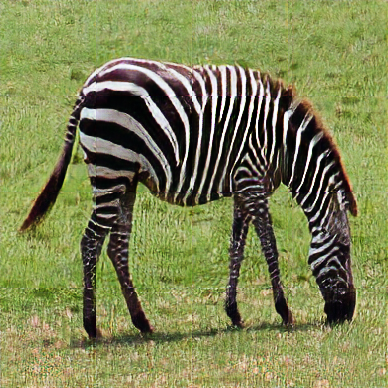
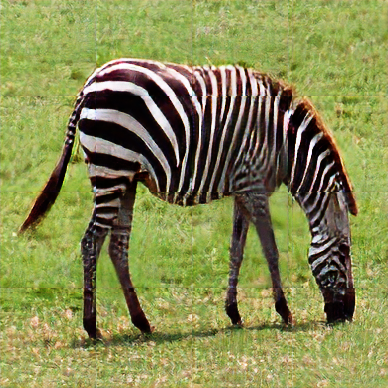
Added test images

diff --git a/Improvement/test.py b/Improvement/test.py
@@ -3,7 +3,7 @@ import numpy as np
 import tensorflow as tf
 from model import generator, discriminator
 
-path = "test_image/input/04336.jpg"
+path = "test_image/input/050.png"
 
 X = cv2.imread(path)
 len = X.shape[0]
@@ -30,6 +30,8 @@ model.add(discriminator())
 generator, discriminator = model.layers
 generator.load_weights("weights/gan_generator.h5")
 
+X = X/255
+
 for i in range (n_of_section):
     for j in range (n_of_section):
 
@@ -38,28 +40,28 @@ for i in range (n_of_section):
             input = np.reshape(input, (1, 24, 24, 3))
             X_batch = tf.cast(input, tf.float32)
             Y = generator(X_batch)
-            output[i*96:(i+1)*96,j*96:(j+1)*96,:] = Y[0]
+            output[i*96:(i+1)*96,j*96:(j+1)*96,:] = (Y[0].numpy() + 1)*127.5
 
         elif (i+1)*24 > size and (j+1)*24 < size:
             input = X[size - 24:size, j*24:(j+1)*24, :]
             input = np.reshape(input, (1, 24, 24, 3))
             X_batch = tf.cast(input, tf.float32)
             Y = generator(X_batch)
-            output[size * 4 - 96:size * 4, j*96:(j+1)*96, :] = Y[0]
+            output[size * 4 - 96:size * 4, j*96:(j+1)*96, :] = (Y[0].numpy() + 1)*127.5
 
         elif (i + 1) * 24 < size and (j + 1) * 24 > size:
             input = X[ i * 24:(i + 1) * 24,size - 24:size, :]
             input = np.reshape(input, (1, 24, 24, 3))
             X_batch = tf.cast(input, tf.float32)
             Y = generator(X_batch)
-            output[ i * 96:(i + 1) * 96,size * 4 - 96:size * 4, :] = Y[0]
+            output[ i * 96:(i + 1) * 96,size * 4 - 96:size * 4, :] = (Y[0].numpy() + 1)*127.5
 
         else:
             input = X[size-24:size, size-24:size, :]
             input = np.reshape(input, (1, 24, 24, 3))
             X_batch = tf.cast(input, tf.float32)
             Y = generator(X_batch)
-            output[size*4-96:size*4, size*4-96:size*4, :] = Y[0].numpy()
+            output[size*4-96:size*4, size*4-96:size*4, :] = (Y[0].numpy() + 1)*127.5
 
         print("{}/{}".format(i*n_of_section + j+1, n_of_section*n_of_section))
 

diff --git a/Improvement/model.py b/Improvement/model.py
@@ -2,6 +2,7 @@ from util import resolve_single, resolve, normalize, denormalize, normalize_01, 
 from tensorflow.python.keras.layers import Add, BatchNormalization, Conv2D, Dense, Flatten, Input, LeakyReLU, PReLU, \
     Lambda, Activation, Concatenate, Multiply, Dropout
 from tensorflow.python.keras.models import Model
+import tensorflow as tf
 from tensorflow.python.keras.applications.vgg19 import VGG19
 
 LR_SIZE = 24
